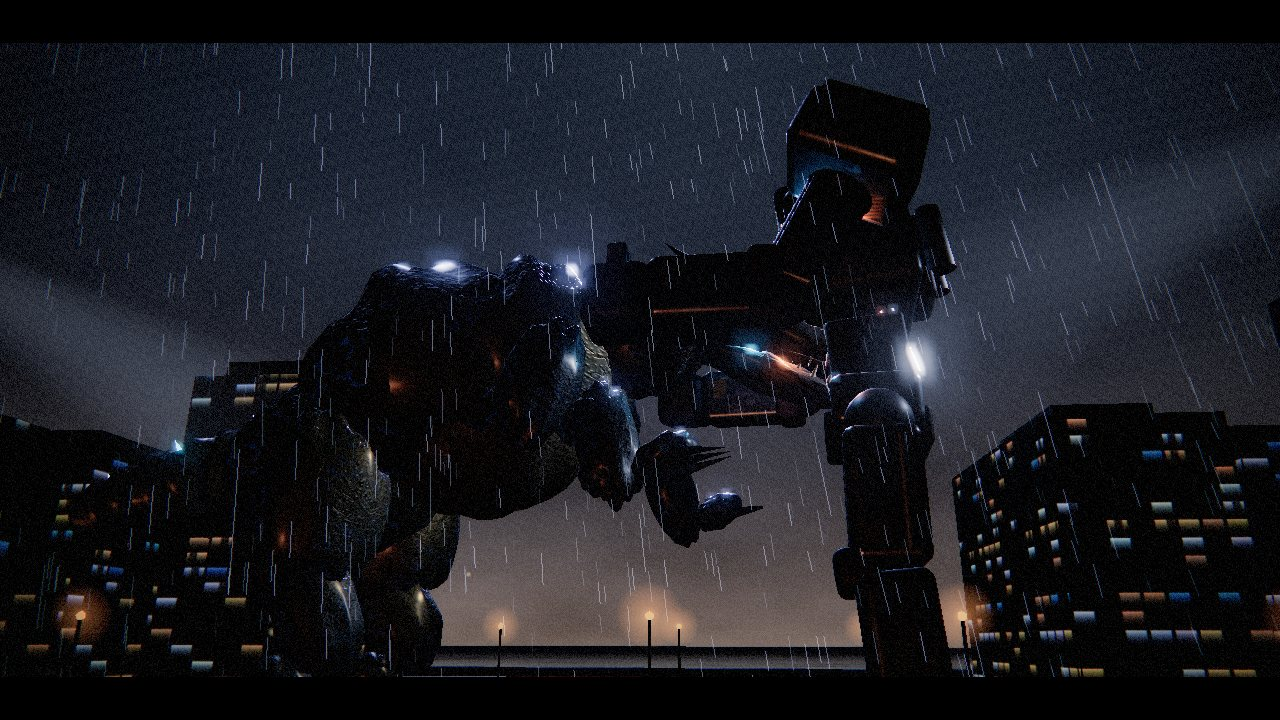
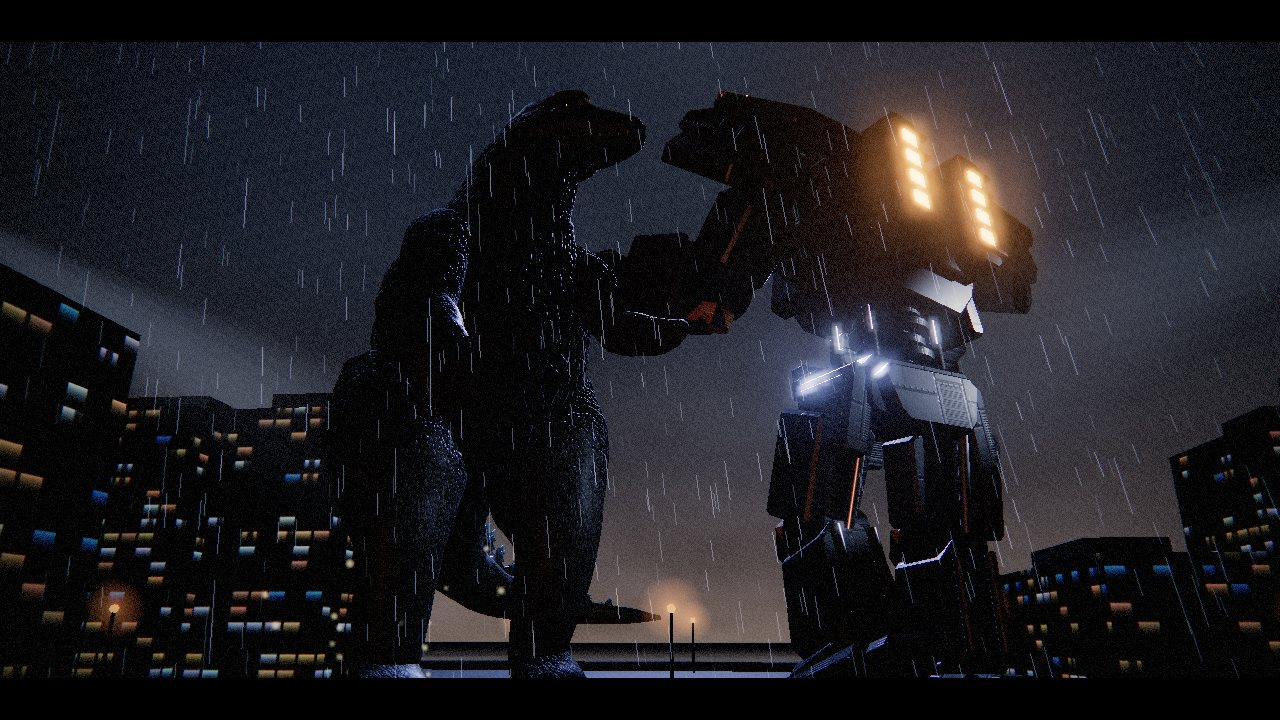
Kaiju Night: new thumbnail

diff --git a/games.js b/games.js
@@ -13,7 +13,7 @@ window.GAMES = [
   {
     id: 'kaiju-night',
     url: '/kaiju-night/',
-    thumb: 'thumbs/kaijunight.jpg?v=1',
+    thumb: 'thumbs/kaijunight.jpg?v=2',
     color: '#d23a2a',
     genres: ['action'],
     devices: ['keyboard', 'touch'],
